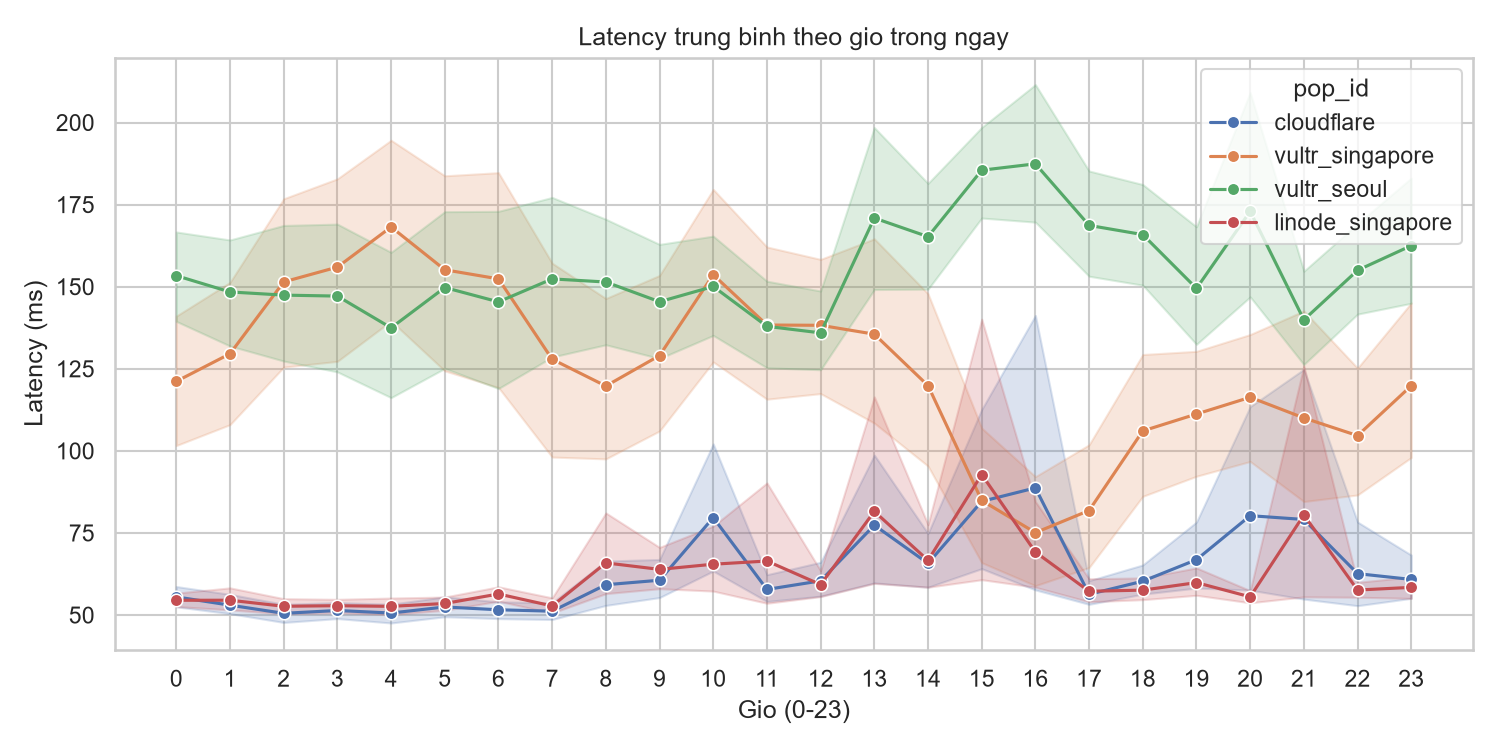
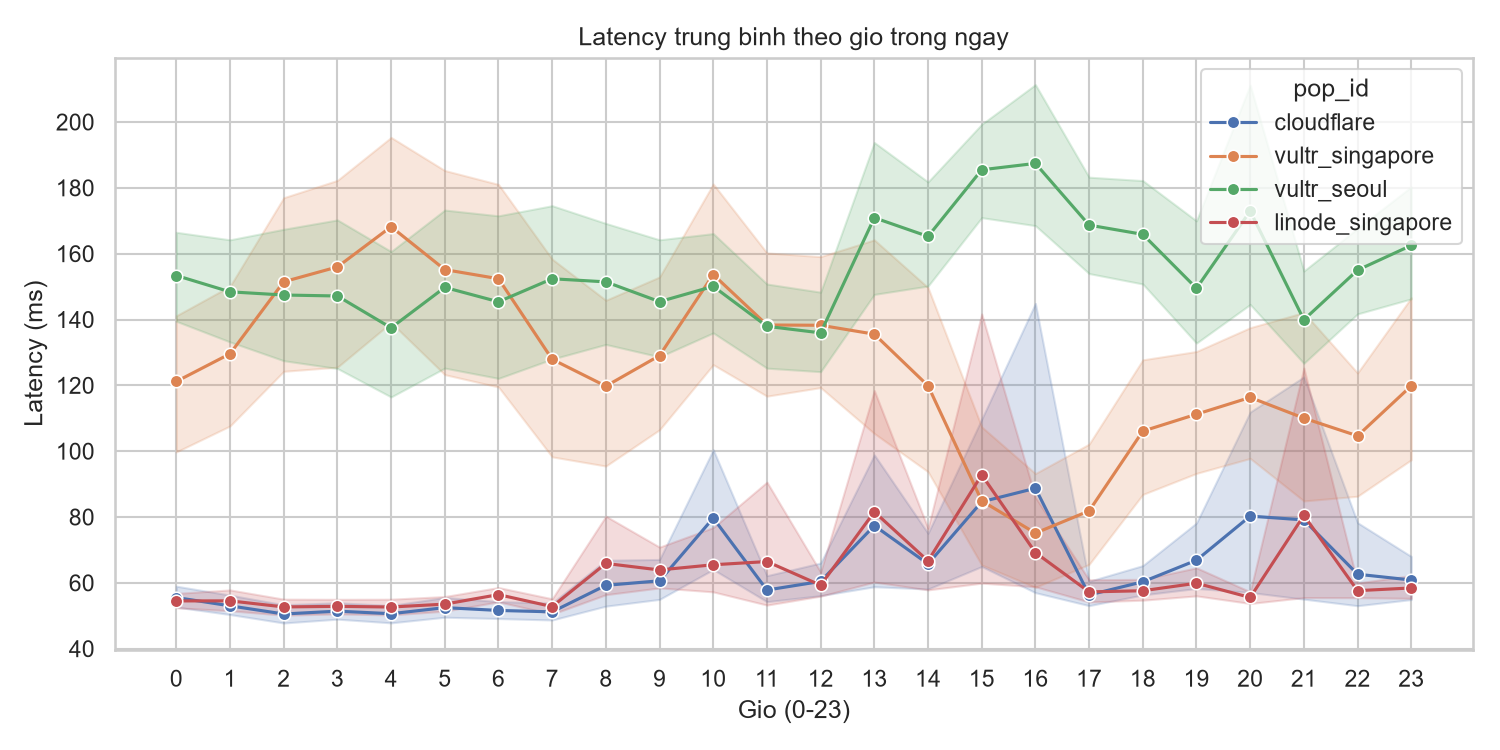
Update eda.py

diff --git a/analysis/eda.py b/analysis/eda.py
@@ -72,6 +72,19 @@ def ve_bieu_do():
     plt.close()
     print(f"Da luu {duong_dan}")
 
+        # 5. Throughput theo gio trong ngay
+    plt.figure(figsize=(10, 5))
+    sns.lineplot(data=df, x="gio", y="throughput_mbps", hue="pop_id", errorbar=("ci", 95), marker="o")
+    plt.title("Throughput trung binh theo gio trong ngay")
+    plt.xlabel("Gio (0-23)")
+    plt.ylabel("Throughput (Mbps)")
+    plt.xticks(range(0, 24))
+    plt.tight_layout()
+    duong_dan = os.path.join(THU_MUC_RA, "05_throughput_theo_gio.png")
+    plt.savefig(duong_dan, dpi=150)
+    plt.close()
+    print(f"Da luu {duong_dan}")
+
     print("\nThong ke nhanh latency theo PoP:")
     print(df.groupby("pop_id")["latency_ms"].describe()[["count", "mean", "50%", "std"]].round(1))
 
